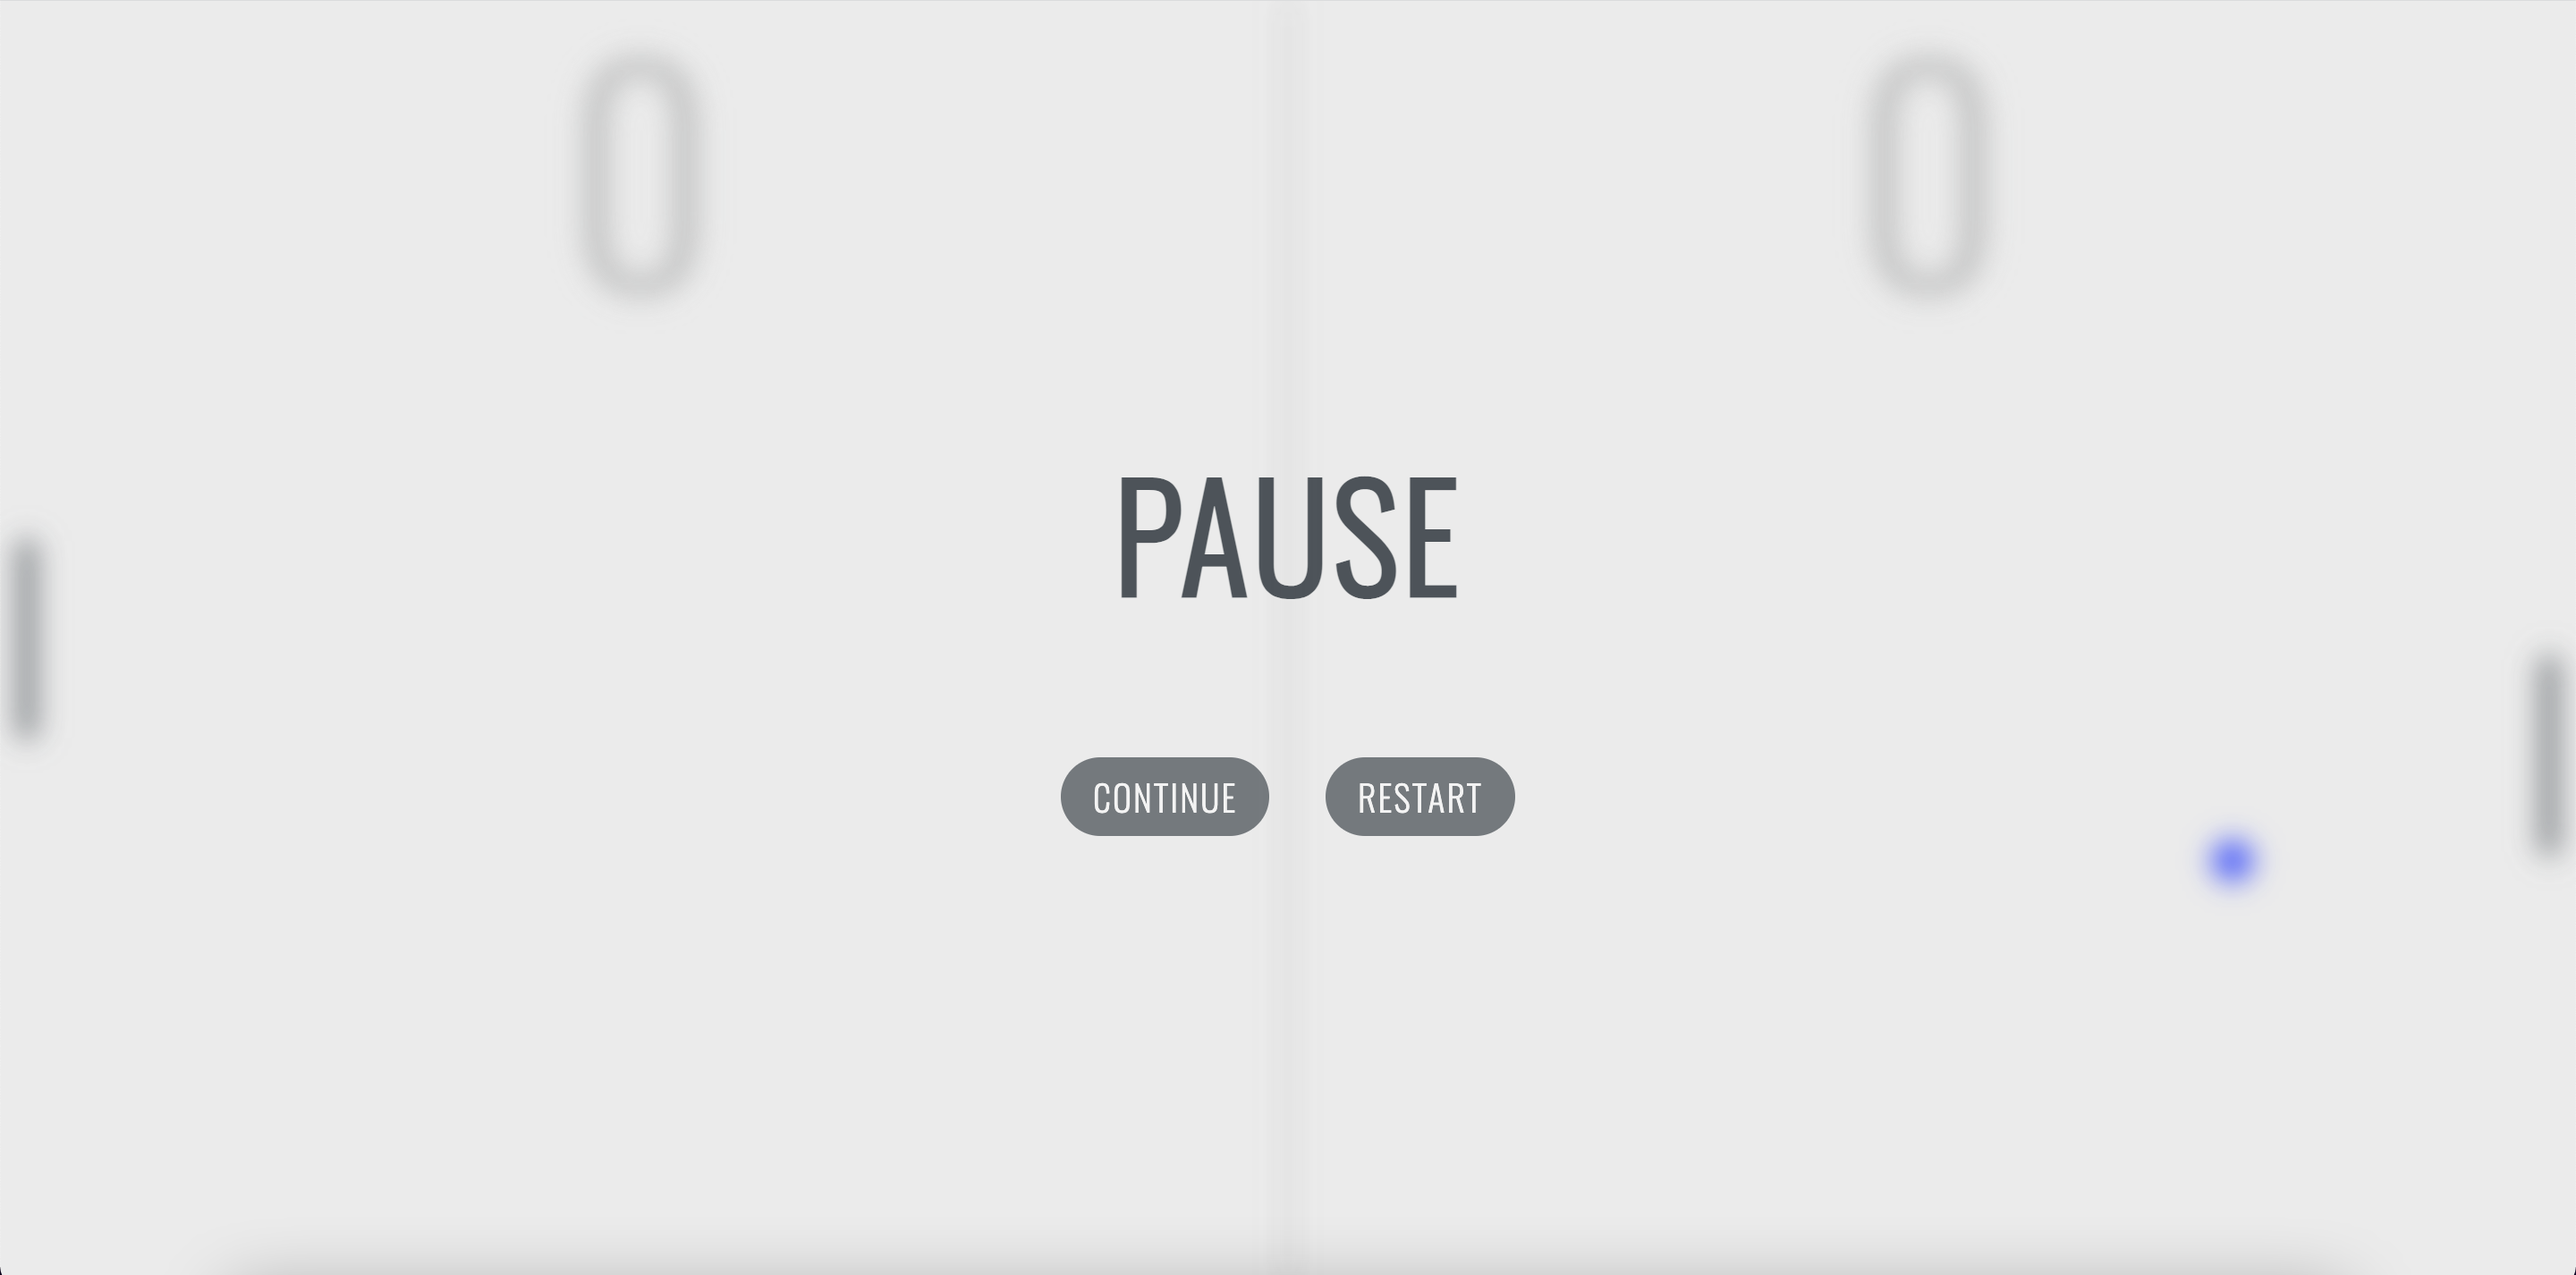
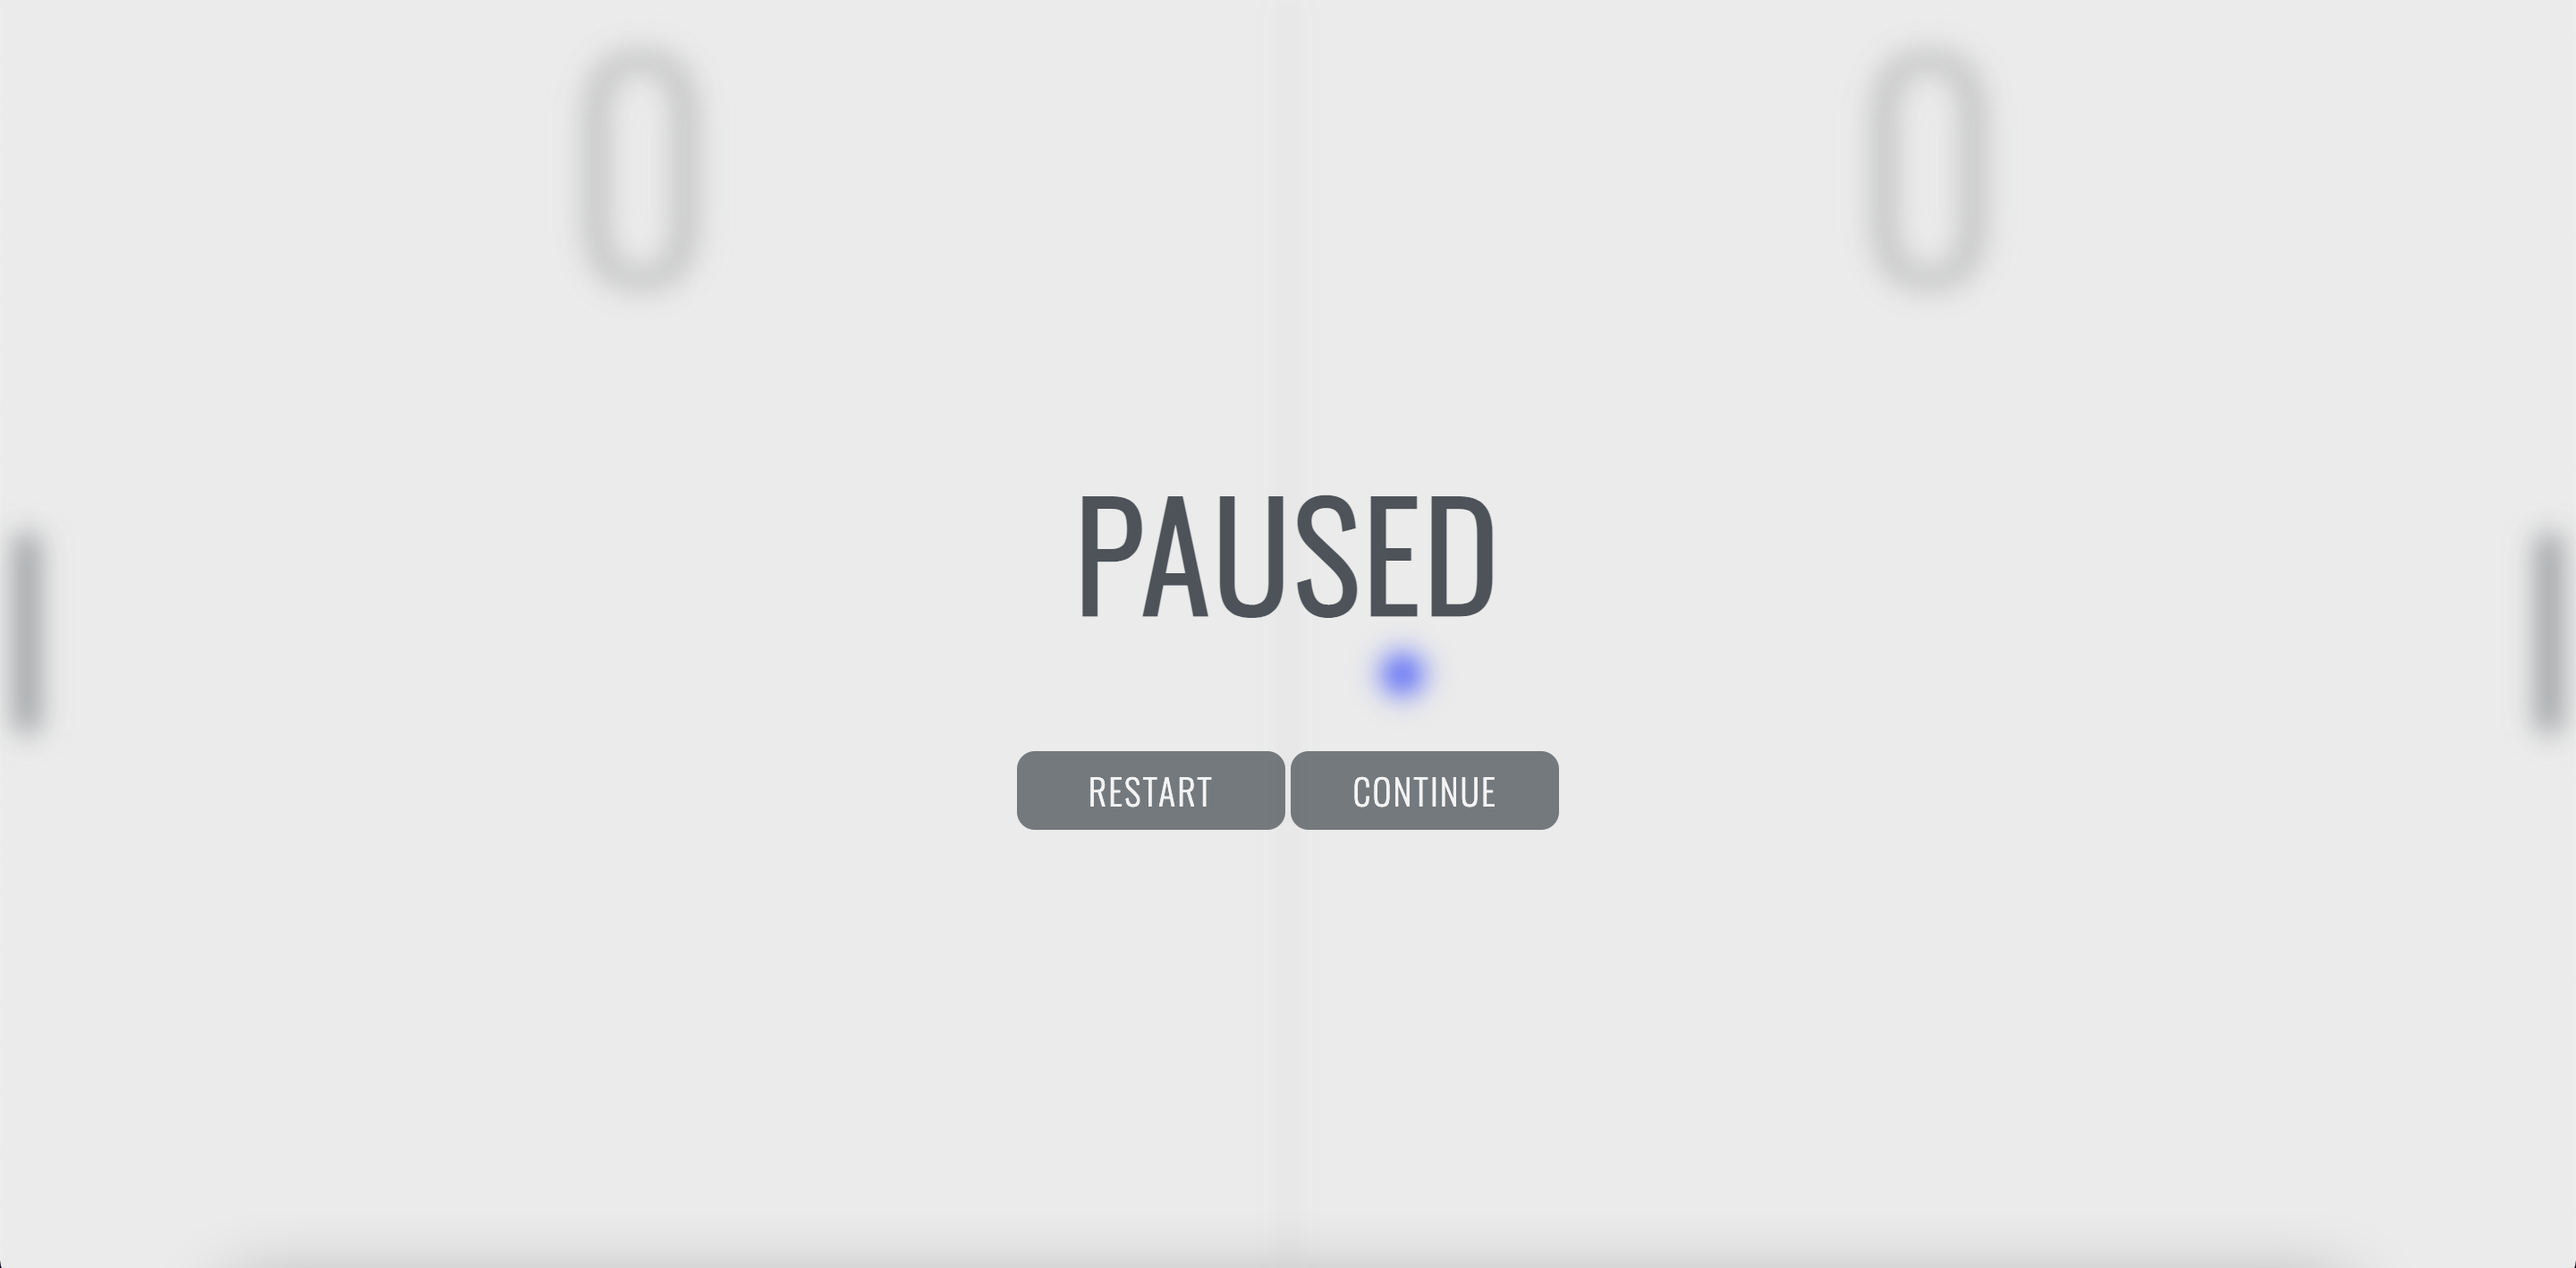
Add README.md file images to images folder

diff --git a/index.html b/index.html
@@ -21,7 +21,7 @@
      </div>
     <!-- Pause menu-->
      <div id="pauseOption">
-         <h1>Pause</h1>
+         <h1>Paused</h1>
          <button id="restart">Restart</button>
          <button id="continueBtn">Continue</button>
     </div>
